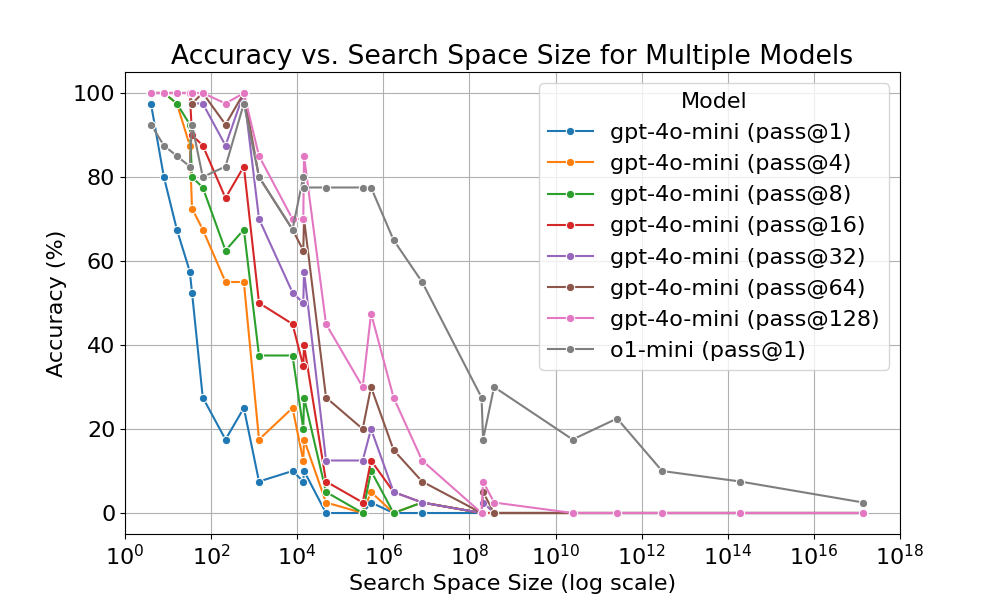
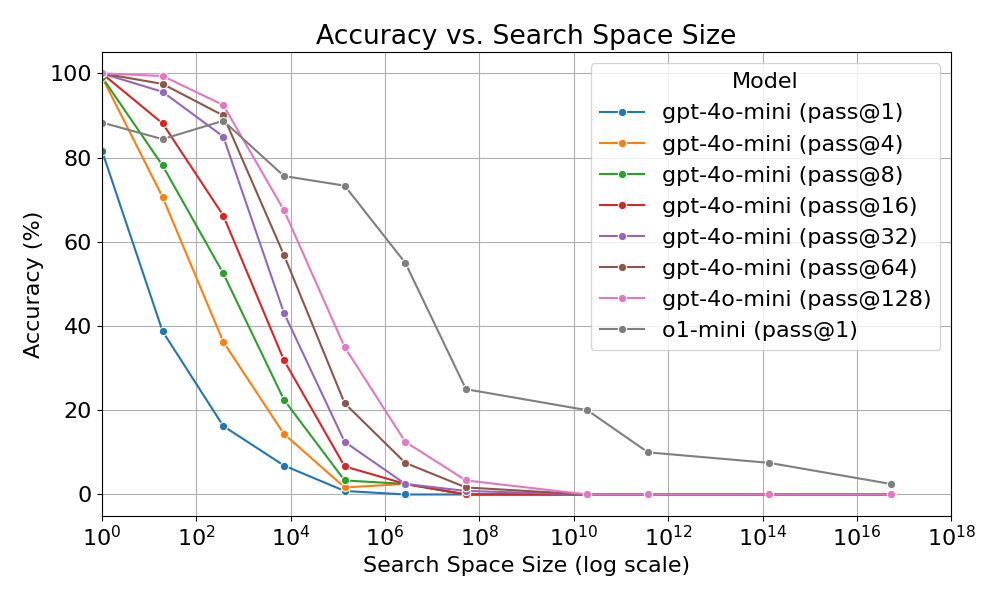
make the figures more smooth by add bins

diff --git a/zebra_logic_analysis/_uni_figure.py b/zebra_logic_analysis/_uni_figure.py
@@ -70,11 +70,9 @@ def plot_hidden_reasoning_vs_search_space(data, output_file_name):
     print(f"Saved the plot to {output_file_name}")
 
 
-def plot_hidden_reasoning_vs_search_space(data, output_file_name):
+def plot_hidden_reasoning_vs_search_space_v2(data, output_file_name):
     # visible_reasoning_token = [d["visible_reasoning_token"] for d in data]
     # define visible reasoning token as the sum of the number of tokens in the output 
-    
-
 
     size = [d["size"] for d in data]
     search_space_sizes = [search_space_size(s) for s in size]
@@ -108,7 +106,7 @@ def plot_hidden_reasoning_vs_search_space(data, output_file_name):
     plt.savefig(output_file_name, dpi=300)
     print(f"Saved the plot to {output_file_name}")
 
-def plot_accuracy_vs_search_space(data_by_model, model_list, output_file_name, max_space_size):
+def plot_accuracy_vs_search_space_v1(data_by_model, model_list, output_file_name, max_space_size):
     plt.figure(figsize=(10, 6))
     for model in model_list:
         model_data = data_by_model[model]
@@ -129,6 +127,46 @@ def plot_accuracy_vs_search_space(data_by_model, model_list, output_file_name, m
     plt.title("Accuracy vs. Search Space Size for Multiple Models")
     plt.grid(True)
     plt.legend(title="Model")
+    plt.savefig(output_file_name)
+    print(f"Saved the plot to {output_file_name}")
+
+def plot_accuracy_vs_search_space(data_by_model, model_list, output_file_name, max_space_size):
+    plt.figure(figsize=(10, 6))
+    
+    # Define bins in log space
+    bin_edges = np.logspace(0, max_space_size, num=15)  # 20 bins from 10^0 to 10^max_space_size
+    
+    for model in model_list:
+        model_data = data_by_model[model]
+        df = pd.DataFrame(model_data)
+        df["search_space_size"] = df["size"].apply(search_space_size)
+        
+        # Bin the data
+        df['space_size_bin'] = pd.cut(df['search_space_size'], bins=bin_edges, labels=bin_edges[:-1])
+        
+        # Calculate accuracy for each bin - modified to handle empty groups
+        accuracy_data = []
+        for name, group in df.groupby("space_size_bin"):
+            if len(group) > 0:  # Only process non-empty groups
+                accuracy_data.append({
+                    "search_space_size": name,
+                    "accuracy": group["solved"].sum() / len(group) * 100
+                })
+        
+        accuracy_data = pd.DataFrame(accuracy_data)
+        if not accuracy_data.empty:  # Only plot if we have data
+            clean_name = clean_model_name(model)
+            sns.lineplot(data=accuracy_data, x="search_space_size", y="accuracy", 
+                        marker="o", label=clean_name)
+
+    plt.xscale("log")
+    plt.xlim(1, 10**max_space_size)
+    plt.xlabel("Search Space Size (log scale)")
+    plt.ylabel("Accuracy (%)")
+    plt.title("Accuracy vs. Search Space Size")
+    plt.grid(True)
+    plt.legend(title="Model")
+    plt.tight_layout()
     plt.savefig(output_file_name)
     print(f"Saved the plot to {output_file_name}")
 
